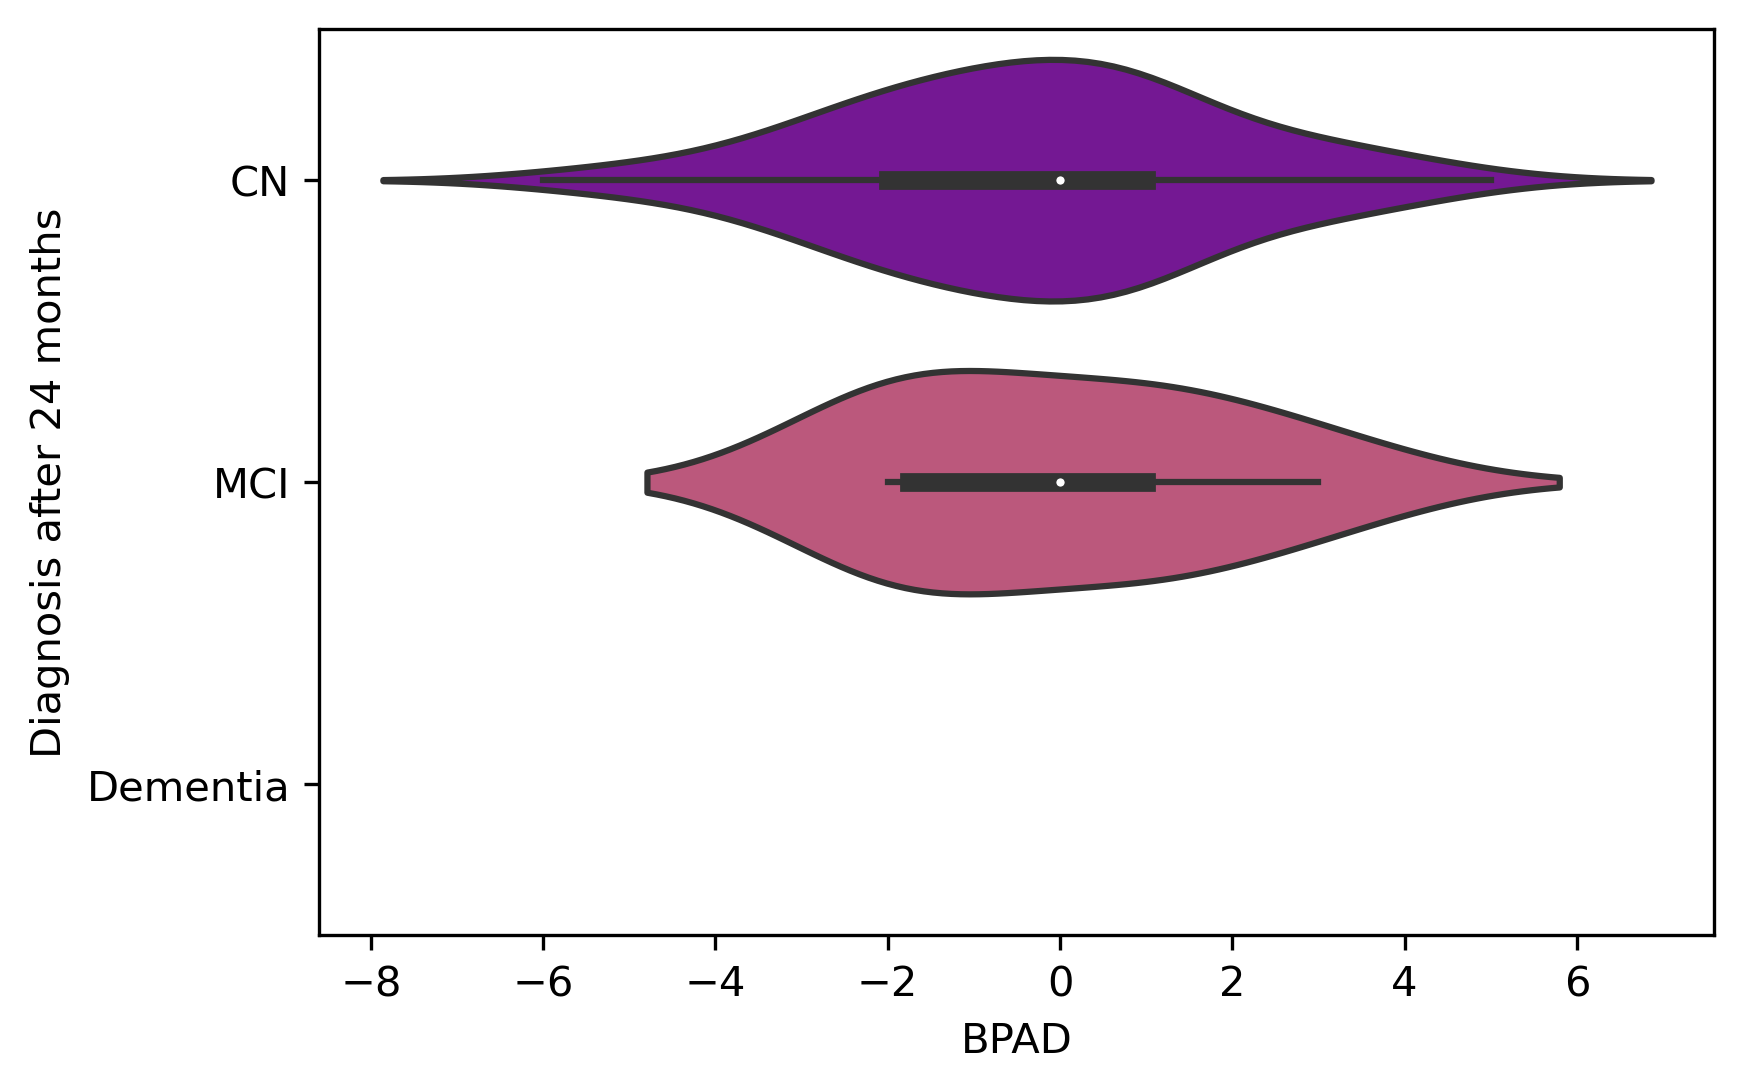
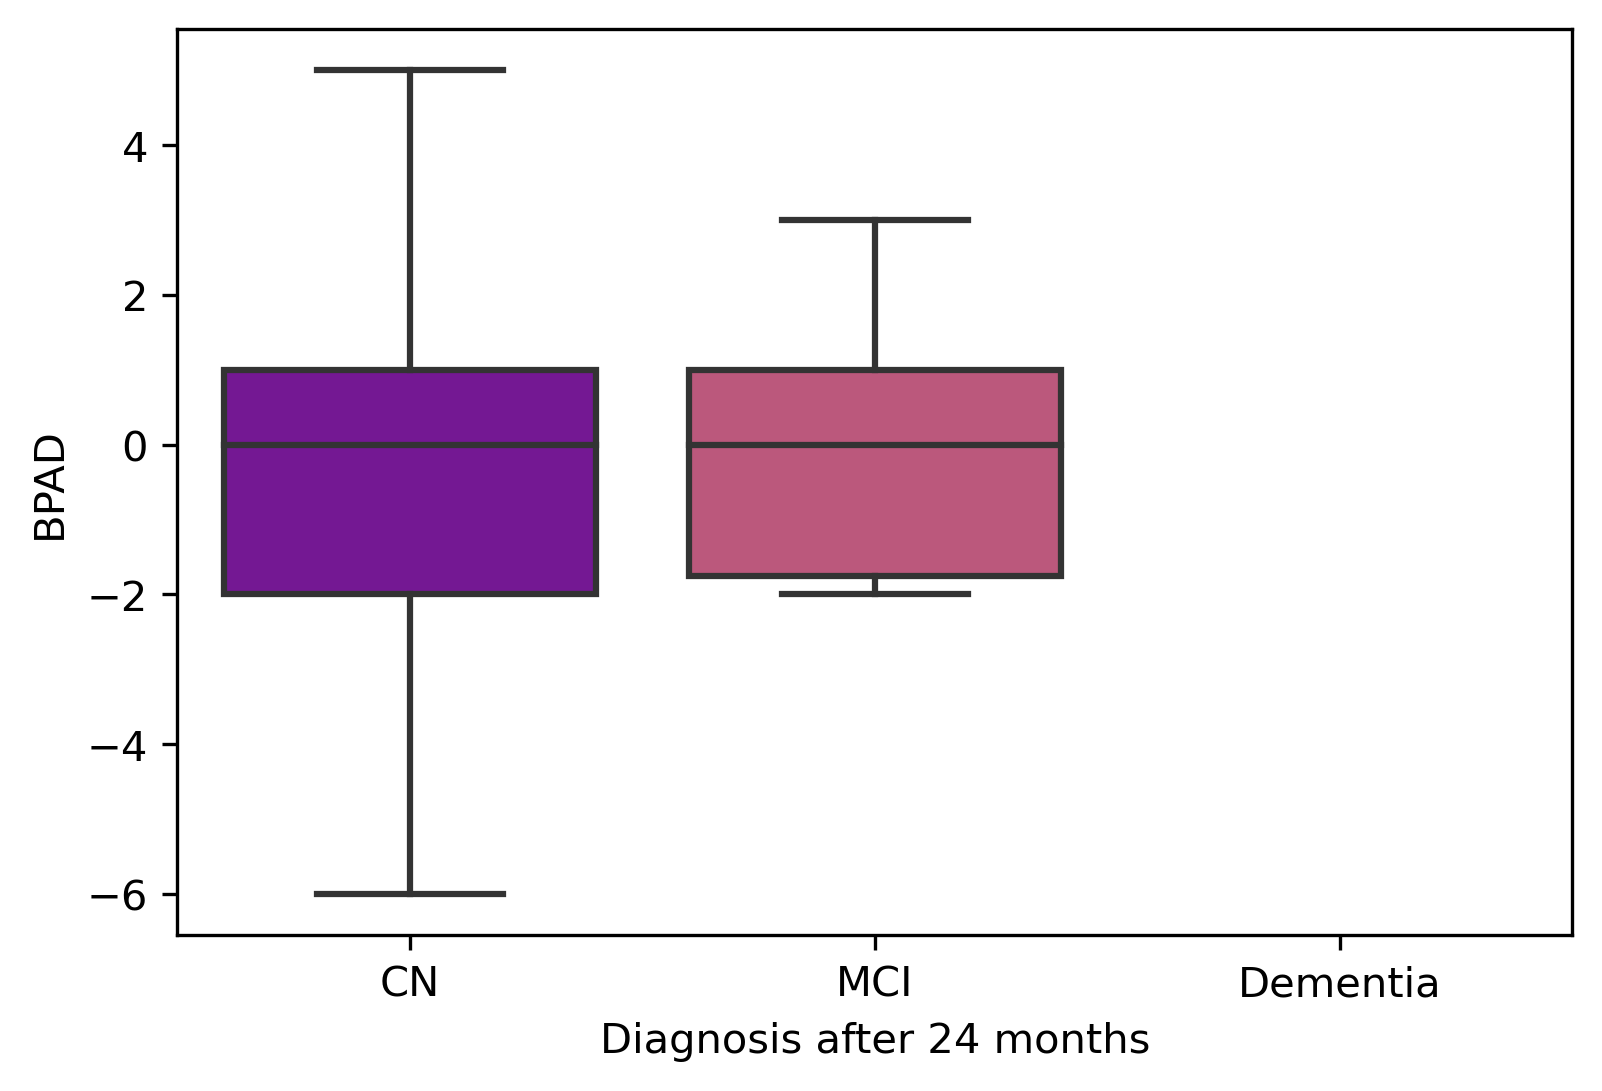
change violin to boxplots

diff --git a/src/plots.py b/src/plots.py
@@ -241,12 +241,14 @@ def check_bias(y_true, y_pred, alg, modality, database,
         linreg.fit(np.array(y_true).reshape(-1, 1), y_diff)
         slope = linreg.coef_[0]
         intercept = linreg.intercept_
+        corrected = True
 
     else:
         # linear regression between CA and predicted age
         linreg.fit(np.array(y_true).reshape(-1, 1), y_pred)
         slope = linreg.coef_[0]
         intercept = linreg.intercept_
+        corrected = True
 
     linreg_plotting = stats.linregress(y_true, y_diff)
     r_plotting = linreg_plotting[2]
@@ -265,8 +267,8 @@ def check_bias(y_true, y_pred, alg, modality, database,
                   'delta and chronological age {}'.format(alg))
 
         if corrected:
-            plt.savefig('../results/{}/bias-corrected_{}_{}.jpg'.format(
-                database, modality, alg),
+            plt.savefig('../results/{}/bias-corrected_{}_{}_{}.jpg'.format(
+                database, corr_with_CA, modality, alg),
                 dpi=300)
         else:
             plt.savefig('../results/{}/bias-uncorrected_{}_{}.jpg'.format(

diff --git a/src/neuropsychology_correlations.py b/src/neuropsychology_correlations.py
@@ -188,10 +188,10 @@ def conversion_analysis(database, modality):
             database, modality, database))
     df_pred['BPAD'] = np.round(df_pred['Prediction'] - df_pred['Age'], 0)
     merge = dx_merge(df_pred, df_dx)
-    sns.violinplot(x='BPAD', y='DX', data=merge, palette='plasma',
+    sns.boxplot(y='BPAD', x='DX', data=merge, palette='plasma',
                    order=["CN", "MCI", "Dementia"],
                    hue_order=["CN", "MCI", "Dementia"])
-    plt.ylabel("Diagnosis after 24 months")
+    plt.xlabel("Diagnosis after 24 months")
     # plt.ylabel("Percent of whole group")
     plt.savefig(fname="../results/" + database + "/plots/Conversion_" +
                 modality + ".png", bbox_inches="tight", dpi=300)
